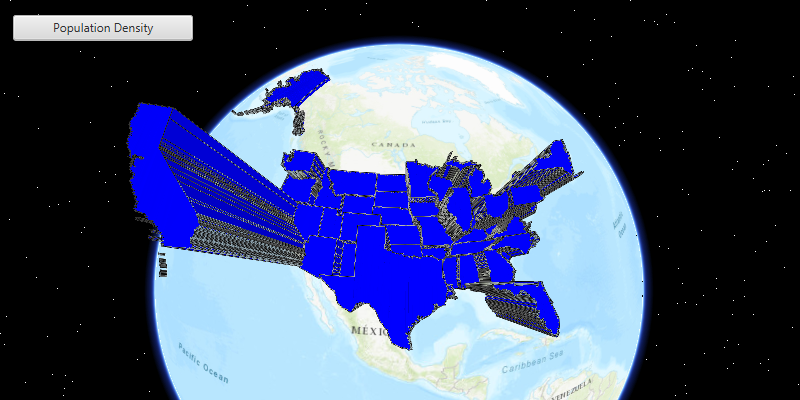
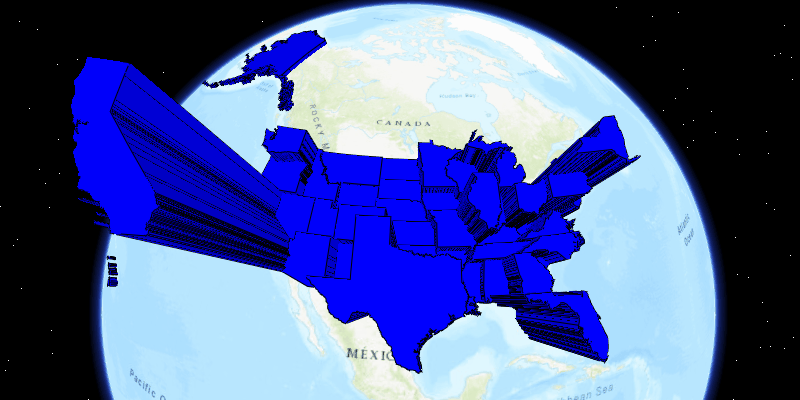
change extrusion mode to ABSOLUTE_HEIGHT

diff --git a/src/main/java/com/esri/samples/featurelayers/feature_layer_extrusion/FeatureLayerExtrusionSample.java b/src/main/java/com/esri/samples/featurelayers/feature_layer_extrusion/FeatureLayerExtrusionSample.java
@@ -77,8 +77,8 @@ public class FeatureLayerExtrusionSample extends Application {
     SimpleLineSymbol lineSymbol = new SimpleLineSymbol(SimpleLineSymbol.Style.SOLID, 0xFF000000, 1.0f);
     SimpleFillSymbol fillSymbol = new SimpleFillSymbol(SimpleFillSymbol.Style.SOLID, 0xFF0000FF, lineSymbol);
     final SimpleRenderer renderer = new SimpleRenderer(fillSymbol);
-    //  need to set an extrusion type, BASE HEIGHT extrudes each point from feature individually
-    renderer.getSceneProperties().setExtrusionMode(Renderer.SceneProperties.ExtrusionMode.BASE_HEIGHT);
+    // set the extrusion mode to absolute height
+    renderer.getSceneProperties().setExtrusionMode(Renderer.SceneProperties.ExtrusionMode.ABSOLUTE_HEIGHT);
     statesFeatureLayer.setRenderer(renderer);
 
     // set camera to focus on state features
@@ -98,13 +98,13 @@ public class FeatureLayerExtrusionSample extends Application {
     Button extrusionButton = new Button("Population Density");
     extrusionButton.setOnAction(v -> {
       if (showTotalPopulation) {
-        // some feature's population is really big of need to sink it down
+        // scale down outlier populations
         renderer.getSceneProperties().setExtrusionExpression("[POP2007]/ 10");
         extrusionButton.setText("Population Density");
         showTotalPopulation = false;
       } else {
-        // density of population is a small value to need to increase it
-        renderer.getSceneProperties().setExtrusionExpression("[POP07_SQMI] * 5000");
+        // scale up density
+        renderer.getSceneProperties().setExtrusionExpression("[POP07_SQMI] * 5000 + 100000");
         extrusionButton.setText("Total Population");
         showTotalPopulation = true;
       }

diff --git a/src/main/java/com/esri/samples/scene/extrude_graphics/ExtrudeGraphicsSample.java b/src/main/java/com/esri/samples/scene/extrude_graphics/ExtrudeGraphicsSample.java
@@ -90,7 +90,7 @@ public class ExtrudeGraphicsSample extends Application {
       // set renderer with extrusion property
       SimpleRenderer renderer = new SimpleRenderer();
       SceneProperties renderProperties = renderer.getSceneProperties();
-      renderProperties.setExtrusionMode(SceneProperties.ExtrusionMode.BASE_HEIGHT);
+      renderProperties.setExtrusionMode(SceneProperties.ExtrusionMode.ABSOLUTE_HEIGHT);
       renderProperties.setExtrusionExpression("[HEIGHT]");
       graphicsOverlay.setRenderer(renderer);
 

diff --git a/src/main/java/com/esri/samples/scene/extrude_graphics/README.md b/src/main/java/com/esri/samples/scene/extrude_graphics/README.md
@@ -16,8 +16,7 @@
 <ol>
   <li>Create a <code>GraphicsOverlay</code> and <code>SimpleRenderer</code>.</li>
   <li>Get the renderer's <code>SceneProperties</code> using <code>Renderer.getSceneProperties()</code>.</li>
-  <li>Set the extrusion mode for the renderer with <code>SceneProperties.setExtrusionMode(ExtrusionMode)</code>.
-    <ul><li>BASE_HEIGHT, graphic is extruded to various z-values</li></ul></li>
+  <li>Set the extrusion mode for the renderer with <code>SceneProperties.setExtrusionMode(ExtrusionMode)</code>.</li>
   <li>Specify the attribute name of the graphic that the extrusion mode will use, <code>SceneProperties
   .setExtrusionExpression("[HEIGHT]")</code>.</li>
   <li>Set the renderer on the graphics overlay, <code>GraphicsOverlay.setRenderer(Renderer)</code>.</li>
